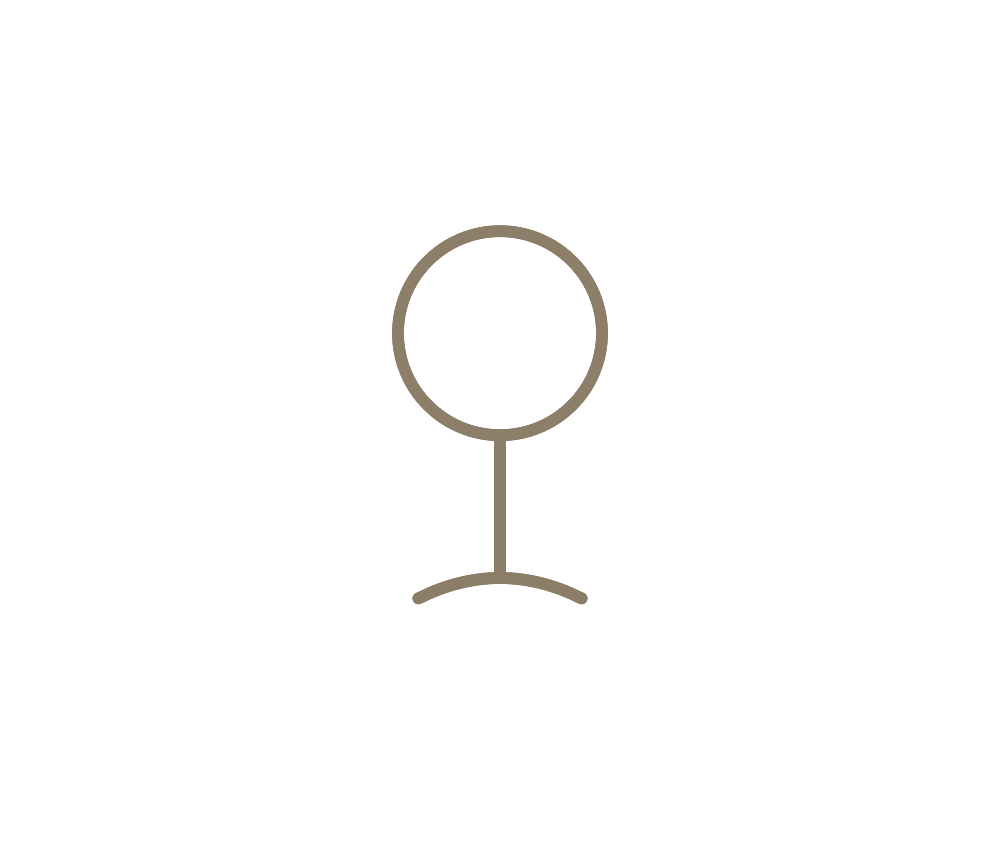
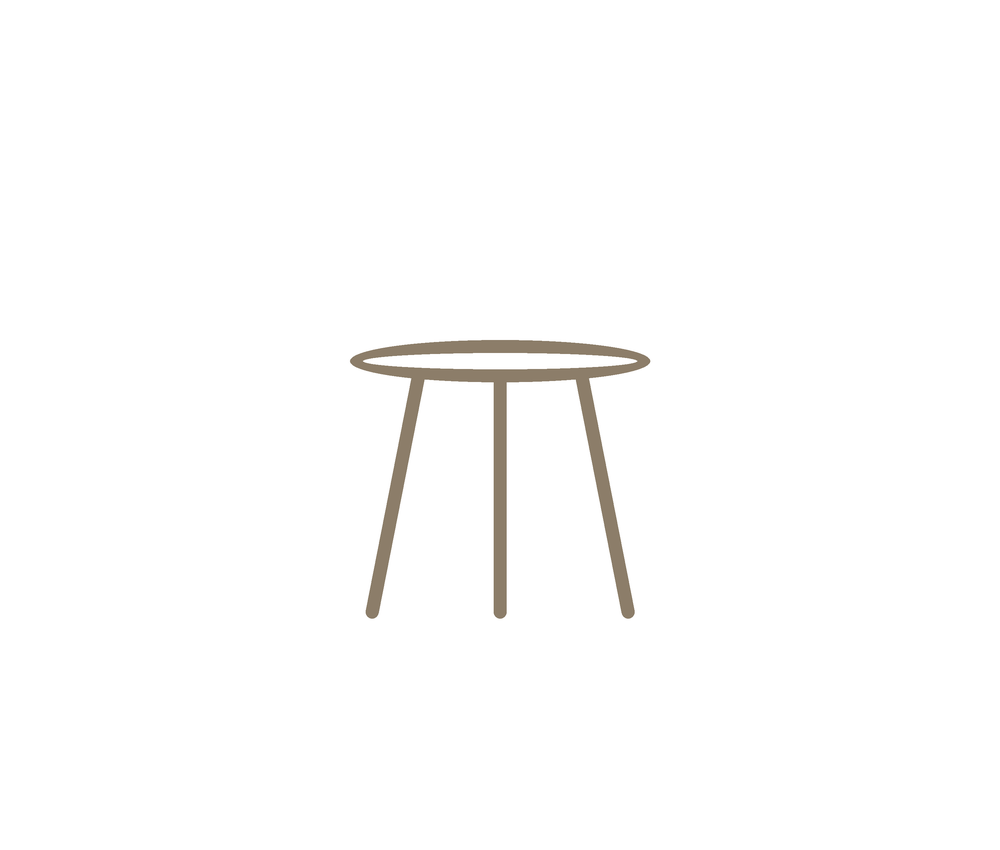
Entrada por categoria, fundo branco e refinamentos de UX
- Página inicial mostra só as categorias (capas); clicar abre os produtos
  da categoria (com foto/descrição próprias quando cadastrados)
- Remove totalmente o 'Em breve'; capas elegantes e clicáveis
- Fundo do site branco (body e login)
- Assinatura 'Por Gabriele Pinheiro' no cabeçalho
- Busca e filtros de categoria mais sutis e elegantes (estilo quiet luxury)
- Nova capa de Mesa lateral (mesa redonda com tripé)
- Novidades: novo subtítulo mensal
- Seed cobre todas as 22 categorias (versão de seed para recarregar dados)

Changed region(s): [[0.341, 0.2447, 0.651, 0.7341]]

diff --git a/assets/styles.css b/assets/styles.css
@@ -13,12 +13,12 @@
   --gold:#B49B6C;
 }
 *{margin:0;padding:0;box-sizing:border-box}
-body{font-family:'Outfit',sans-serif;background:var(--linen);color:var(--ink);min-height:100vh}
+body{font-family:'Outfit',sans-serif;background:#FFFFFF;color:var(--ink);min-height:100vh}
 h1,h2,h3,.display{font-family:'Marcellus',serif;font-weight:400}
 button{font-family:inherit;cursor:pointer}
 
 /* ---------- LOGIN ---------- */
-#loginScreen{position:fixed;inset:0;background:var(--linen);display:flex;align-items:center;justify-content:center;z-index:100;padding:24px}
+#loginScreen{position:fixed;inset:0;background:#FFFFFF;display:flex;align-items:center;justify-content:center;z-index:100;padding:24px}
 .login-card{max-width:420px;width:100%;text-align:center}
 .login-card .mark{font-family:'Marcellus',serif;font-size:13px;letter-spacing:.35em;text-transform:uppercase;color:var(--bronze)}
 .login-card h1{font-size:34px;margin:14px 0 6px}
@@ -37,6 +37,7 @@ button{font-family:inherit;cursor:pointer}
 header{padding:26px 5vw 0;display:flex;justify-content:space-between;align-items:center;flex-wrap:wrap;gap:14px}
 .brand{font-family:'Marcellus',serif;font-size:15px;letter-spacing:.3em;text-transform:uppercase}
 .brand span{color:var(--bronze)}
+.brand-by{font-size:10.5px;letter-spacing:.22em;text-transform:uppercase;color:var(--bronze-soft);margin-top:5px}
 .header-actions{display:flex;gap:10px;align-items:center;flex-wrap:wrap}
 .chip-btn{background:transparent;border:1px solid var(--line);padding:9px 18px;font-size:12px;letter-spacing:.12em;text-transform:uppercase;border-radius:2px;color:var(--ink);transition:all .2s;display:flex;gap:8px;align-items:center}
 .chip-btn:hover,.chip-btn.active{background:var(--ink);color:var(--linen);border-color:var(--ink)}
@@ -49,14 +50,15 @@ header{padding:26px 5vw 0;display:flex;justify-content:space-between;align-items
 .hero p{margin-top:10px;font-size:14px;color:var(--bronze);max-width:520px;line-height:1.65}
 
 /* ---------- BUSCA (+ NOVO) ---------- */
-.toolbar{display:flex;gap:12px;align-items:center;padding:18px 5vw 0;flex-wrap:wrap}
-.search{flex:1;min-width:220px;display:flex;align-items:center;gap:10px;background:var(--card);border:1px solid var(--line);border-radius:2px;padding:0 14px}
-.search:focus-within{border-color:var(--bronze)}
-.search input{flex:1;border:none;outline:none;background:none;font-family:inherit;font-size:14px;padding:13px 0;color:var(--ink)}
-.search svg{width:16px;height:16px;stroke:var(--bronze);fill:none;stroke-width:2}
+.toolbar{display:flex;gap:18px;align-items:center;justify-content:center;padding:24px 5vw 2px;flex-wrap:wrap}
+.search{flex:0 1 440px;display:flex;align-items:center;gap:12px;background:transparent;border:none;border-bottom:1px solid var(--line);border-radius:0;padding:0 4px;transition:border-color .2s}
+.search:focus-within{border-bottom-color:var(--bronze)}
+.search input{flex:1;border:none;outline:none;background:none;font-family:inherit;font-size:14px;letter-spacing:.02em;padding:11px 0;color:var(--ink)}
+.search input::placeholder{color:var(--bronze-soft);letter-spacing:.04em}
+.search svg{width:15px;height:15px;stroke:var(--bronze-soft);fill:none;stroke-width:1.8}
 .country-pick{display:flex;align-items:center;gap:8px}
-.country-pick select{border:1px solid var(--line);background:var(--card);font-family:inherit;font-size:13px;padding:12px 14px;border-radius:2px;color:var(--ink);outline:none}
-.country-pick select:focus{border-color:var(--bronze)}
+.country-pick select{border:none;border-bottom:1px solid var(--line);background:transparent;font-family:inherit;font-size:13px;padding:10px 6px;border-radius:0;color:var(--ink);outline:none;transition:border-color .2s}
+.country-pick select:focus{border-bottom-color:var(--bronze)}
 
 /* ---------- ATLAS (regiões) ---------- */
 .atlas{display:flex;gap:0;overflow-x:auto;border-top:1px solid var(--line);border-bottom:1px solid var(--line);margin:22px 0 0;padding:0 5vw;scrollbar-width:none}
@@ -67,8 +69,9 @@ header{padding:26px 5vw 0;display:flex;justify-content:space-between;align-items
 .atlas button:hover{color:var(--ink)}
 
 /* ---------- CATEGORIAS ---------- */
-.cats{display:flex;gap:8px;flex-wrap:wrap;padding:20px 5vw 4px}
-.cats button{background:var(--card);border:1px solid var(--line);padding:8px 16px;font-size:12.5px;border-radius:999px;color:var(--ink);transition:all .2s}
+.cats{display:flex;gap:6px;flex-wrap:wrap;justify-content:center;padding:18px 8vw 6px}
+.cats button{background:transparent;border:1px solid transparent;padding:7px 15px;font-size:12px;letter-spacing:.05em;border-radius:999px;color:var(--bronze);transition:all .2s}
+.cats button:hover{color:var(--ink);background:#FAF7F1}
 .cats button.active{background:var(--bronze);border-color:var(--bronze);color:#fff}
 
 /* ---------- GRID ---------- */
@@ -95,10 +98,14 @@ header{padding:26px 5vw 0;display:flex;justify-content:space-between;align-items
 .price .dim{color:var(--line)}
 
 /* Cartão de categoria ainda sem produtos cadastrados (+ NOVO) */
-.card-soon{cursor:default}
-.card-soon:hover{transform:none;box-shadow:none}
-.card-soon .store{color:var(--bronze-soft)}
-.card-soon .name{color:var(--bronze)}
+/* Entrada por categoria (capas clicáveis) */
+.grid-cats{grid-template-columns:repeat(auto-fill,minmax(220px,1fr))}
+.cat-tile{background:var(--card);border:1px solid var(--line);border-radius:3px;overflow:hidden;cursor:pointer;display:flex;flex-direction:column;transition:transform .2s, box-shadow .2s}
+.cat-tile:hover{transform:translateY(-3px);box-shadow:0 14px 30px rgba(60,50,30,.09)}
+.cat-tile-img{aspect-ratio:1/.85;background:#FFFFFF;display:flex;align-items:center;justify-content:center;overflow:hidden}
+.cat-tile-img img{width:100%;height:100%;object-fit:cover}
+.cat-tile-name{font-family:'Marcellus',serif;font-size:17px;text-align:center;padding:14px 10px 18px;color:var(--ink);transition:color .2s}
+.cat-tile:hover .cat-tile-name{color:var(--bronze)}
 
 /* ---------- ADMIN ---------- */
 #adminPanel{position:fixed;inset:0;background:rgba(44,40,32,.45);display:none;align-items:flex-start;justify-content:center;z-index:90;padding:5vh 16px;overflow:auto}

diff --git a/assets/app.js b/assets/app.js
@@ -184,50 +184,65 @@ function priceHTML(level, currency) {
 function renderGrid() {
   const grid = $('grid');
   const empty = $('emptyState');
-  const items = currentItems();
 
-  $('heroTitle').textContent =
-    state.view === 'favoritos' ? 'Seus favoritos, guardados num só lugar.'
-    : state.view === 'novidades' ? 'Novidades da curadoria.'
-    : 'Móveis e decoração com curadoria, loja a loja.';
+  // Entrada da curadoria: mostra só as categorias (capas). Clicar abre os produtos.
+  const isLanding = state.view === 'curadoria' && state.category === 'Todos' && !state.search;
 
-  $('heroSub').textContent =
-    state.view === 'favoritos'
-      ? 'Espaço feito para você não perder os itens que mais gostou.'
-      : state.view === 'novidades'
-      ? 'As peças que acabaram de entrar na curadoria.'
-      : 'Cada peça abaixo foi avaliada: reputação da loja e países de entrega. Clique na peça para abrir direto na loja.';
+  if (state.view === 'favoritos') {
+    $('heroTitle').textContent = 'Seus favoritos, guardados num só lugar.';
+    $('heroSub').textContent = 'Espaço feito para você não perder os itens que mais gostou.';
+  } else if (state.view === 'novidades') {
+    $('heroTitle').textContent = 'Novidades da curadoria.';
+    $('heroSub').textContent = 'Aqui você encontra as peças que acabaram de entrar na curadoria. Todo mês, novas peças pra você.';
+  } else if (isLanding) {
+    $('heroTitle').textContent = 'Móveis e decoração com curadoria, loja a loja.';
+    $('heroSub').textContent = 'Explore a curadoria por categoria.';
+  } else if (state.search) {
+    $('heroTitle').textContent = 'Resultados da busca';
+    $('heroSub').textContent = 'Peças que combinam com o que você procura.';
+  } else {
+    $('heroTitle').textContent = state.category;
+    $('heroSub').textContent = 'Cada peça foi avaliada: reputação da loja e países de entrega. Clique para abrir direto na loja.';
+  }
 
   // toolbar de país só na curadoria
   $('countryPick').style.display =
     (state.view === 'curadoria' && (COUNTRIES[state.region] || []).length > 1) ? '' : 'none';
 
-  // Capas "Em breve": na curadoria, mostramos a capa de cada categoria que
-  // ainda não tem produto — assim o cliente já vê tudo o que vem por aí,
-  // mesmo antes do catálogo ser alimentado.
-  let soon = [];
-  if (state.view === 'curadoria' && !state.search) {
-    const present = new Set(items.map((p) => p.categoria));
-    const cats = state.category === 'Todos' ? CATEGORIES : [state.category];
-    soon = cats.filter((c) => !present.has(c));
+  if (isLanding) {
+    empty.style.display = 'none';
+    grid.className = 'grid grid-cats';
+    grid.innerHTML = CATEGORIES.map((cat) => `<article class="cat-tile" data-cat="${escapeAttr(cat)}">
+        <div class="cat-tile-img"><img src="${coverFor(cat)}" alt="${escapeAttr(cat)}" loading="lazy"></div>
+        <div class="cat-tile-name">${cat}</div>
+      </article>`).join('');
+    grid.querySelectorAll('[data-cat]').forEach((el) => {
+      el.onclick = () => setCat(el.dataset.cat);
+    });
+    return;
   }
 
-  if (!items.length && !soon.length) {
+  grid.className = 'grid';
+  const items = currentItems();
+
+  if (!items.length) {
     grid.innerHTML = '';
     empty.style.display = 'block';
     $('emptyMsg').textContent =
       state.view === 'favoritos' ? 'Toque no coração de qualquer peça para guardá-la aqui.'
-      : 'Sem novidades no momento — volte em breve.';
+      : state.view === 'novidades' ? 'Sem novidades no momento — volte em breve.'
+      : state.search ? 'Nada encontrado para esta busca.'
+      : 'Nenhuma peça nesta categoria ainda.';
     return;
   }
   empty.style.display = 'none';
 
-  const productsHTML = items.map((p) => {
+  grid.innerHTML = items.map((p) => {
     const region = regionById(p.region);
     const fav = state.favs.has(p.id);
     // Foto própria do produto, ou a capa oficial aprovada da categoria.
     const imgSrc = p.imagem || coverFor(p.categoria);
-    const imgInner = `<img src="${imgSrc}" alt="${escapeAttr(p.nome)}">`;
+    const imgInner = `<img src="${imgSrc}" alt="${escapeAttr(p.nome)}" loading="lazy">`;
     return `<article class="card">
       ${isActiveNovelty(p) ? '<span class="badge-new">Novo</span>' : ''}
       <button class="fav ${fav ? 'on' : ''}" data-fav="${p.id}" aria-label="Favoritar">♥</button>
@@ -243,16 +258,6 @@ function renderGrid() {
       </div>
     </article>`;
   }).join('');
-
-  const soonHTML = soon.map((cat) => `<article class="card card-soon">
-      <div class="img"><img src="${coverFor(cat)}" alt="${escapeAttr(cat)}"></div>
-      <div class="info">
-        <div class="store">Em breve</div>
-        <div class="name">${cat}</div>
-      </div>
-    </article>`).join('');
-
-  grid.innerHTML = productsHTML + soonHTML;
 
   grid.querySelectorAll('[data-open]').forEach((el) => {
     el.onclick = () => { const u = el.dataset.open; if (u && u !== '#') window.open(u, '_blank'); };

diff --git a/assets/seed.js b/assets/seed.js
@@ -34,4 +34,19 @@ export const PRODUCTS_SEED = [
   { id: 'p8',  nome: 'Cadeira Thonet n.º 14, vintage',      referencia: 'Chaise Thonet n°14',      storeId: 'loja-selency',   categoria: 'Cadeira',         faixaPreco: 4, imagem: '', link: 'https://www.selency.com', novidade: false, novidadeAte: '' },
   { id: 'p9',  nome: 'Poltrona Costela, couro caramelo',    referencia: 'Poltrona Costela',        storeId: 'loja-tokstok',   categoria: 'Poltrona',        faixaPreco: 3, imagem: '', link: 'https://www.tokstok.com.br',novidade: false, novidadeAte: '' },
   { id: 'p10', nome: 'Manta tramada em algodão rústico',    referencia: 'Manta Algodão',          storeId: 'loja-westwingbr',categoria: 'Decoração',       faixaPreco: 1, imagem: '', link: 'https://www.westwing.com.br',novidade: false, novidadeAte: '' },
+  { id: 'p11', nome: 'Sofá Hampton 3 lugares, linho',       referencia: 'Sofa Hampton Leinen',     storeId: 'loja-westwing',  categoria: 'Sofá',                  faixaPreco: 5, imagem: '', link: 'https://www.westwing.de',  novidade: true,  novidadeAte: EM_30_DIAS },
+  { id: 'p12', nome: 'Banqueta de madeira Oslo',            referencia: 'Hocker Oslo',             storeId: 'loja-hm',        categoria: 'Banco & Banqueta',      faixaPreco: 1, imagem: '', link: 'https://www2.hm.com',     novidade: false, novidadeAte: '' },
+  { id: 'p13', nome: 'Mesa lateral redonda Nara',           referencia: 'Mesa auxiliar Nara',      storeId: 'loja-kave',      categoria: 'Mesa lateral',          faixaPreco: 2, imagem: '', link: 'https://kavehome.com',    novidade: false, novidadeAte: '' },
+  { id: 'p14', nome: 'Mesa de cabeceira Linnea',            referencia: 'Nachttisch Linnea',       storeId: 'loja-westwing',  categoria: 'Mesa de cabeceira',     faixaPreco: 2, imagem: '', link: 'https://www.westwing.de',  novidade: false, novidadeAte: '' },
+  { id: 'p15', nome: 'Aparador Surry em carvalho',          referencia: 'Sideboard Surry',         storeId: 'loja-kave',      categoria: 'Aparador & Buffet',     faixaPreco: 4, imagem: '', link: 'https://kavehome.com',    novidade: false, novidadeAte: '' },
+  { id: 'p16', nome: 'Estante modular Berg',                referencia: 'Regal Berg',              storeId: 'loja-urbanara',  categoria: 'Estante',               faixaPreco: 3, imagem: '', link: 'https://www.urbanara.de', novidade: false, novidadeAte: '' },
+  { id: 'p17', nome: 'Cama de casal estofada Mara',         referencia: 'Polsterbett Mara',        storeId: 'loja-westwing',  categoria: 'Cama',                  faixaPreco: 5, imagem: '', link: 'https://www.westwing.de',  novidade: false, novidadeAte: '' },
+  { id: 'p18', nome: 'Cômoda 3 gavetas Brienne',            referencia: 'Commode Brienne',         storeId: 'loja-laredoute', categoria: 'Cômoda',                faixaPreco: 3, imagem: '', link: 'https://www.laredoute.fr',novidade: false, novidadeAte: '' },
+  { id: 'p19', nome: 'Escrivaninha minimalista Aria',       referencia: 'Schreibtisch Aria',       storeId: 'loja-hm',        categoria: 'Escrivaninha',          faixaPreco: 2, imagem: '', link: 'https://www2.hm.com',     novidade: false, novidadeAte: '' },
+  { id: 'p20', nome: 'Luminária de chão arco Lua',          referencia: 'Stehlampe Lua',           storeId: 'loja-zarahome',  categoria: 'Luminária',             faixaPreco: 3, imagem: '', link: 'https://www.zarahome.com',novidade: true,  novidadeAte: EM_30_DIAS },
+  { id: 'p21', nome: 'Conjunto de quadros botânicos',       referencia: 'Set láminas botánicas',   storeId: 'loja-zarahome',  categoria: 'Quadros & Arte',        faixaPreco: 1, imagem: '', link: 'https://www.zarahome.com',novidade: false, novidadeAte: '' },
+  { id: 'p22', nome: 'Espelho redondo aro bronze',          referencia: 'Espejo redondo',          storeId: 'loja-zarahome',  categoria: 'Espelho',               faixaPreco: 2, imagem: '', link: 'https://www.zarahome.com',novidade: false, novidadeAte: '' },
+  { id: 'p23', nome: 'Jogo de cama percal 200 fios',        referencia: 'Bettwäsche Perkal',       storeId: 'loja-urbanara',  categoria: 'Roupa de cama & Têxtil',faixaPreco: 2, imagem: '', link: 'https://www.urbanara.de', novidade: false, novidadeAte: '' },
+  { id: 'p24', nome: 'Espreguiçadeira de jardim Riviera',   referencia: 'Bain de soleil Riviera',  storeId: 'loja-laredoute', categoria: 'Área externa',          faixaPreco: 3, imagem: '', link: 'https://www.laredoute.fr',novidade: false, novidadeAte: '' },
+  { id: 'p25', nome: 'Poltrona de leitura Lounge',          referencia: 'Sessel Lounge',           storeId: 'loja-westwing',  categoria: 'Poltrona',              faixaPreco: 4, imagem: '', link: 'https://www.westwing.de',  novidade: false, novidadeAte: '' },
 ];

diff --git a/assets/data-layer.js b/assets/data-layer.js
@@ -53,9 +53,14 @@ const seedAdapter = (() => {
   };
   const write = (k, v) => localStorage.setItem(k, JSON.stringify(v));
 
-  // Semeia o catálogo na primeira visita.
-  if (read(LS.stores, null) === null) write(LS.stores, STORES_SEED);
-  if (read(LS.prods,  null) === null) write(LS.prods,  PRODUCTS_SEED);
+  // Semeia o catálogo. SEED_VERSION força recarregar os dados de exemplo
+  // quando atualizamos o seed (senão o navegador manteria a versão antiga).
+  const SEED_VERSION = '3';
+  if (read('cci.seedv', null) !== SEED_VERSION) {
+    write(LS.stores, STORES_SEED);
+    write(LS.prods, PRODUCTS_SEED);
+    write('cci.seedv', SEED_VERSION);
+  }
 
   const storesById = () =>
     Object.fromEntries(read(LS.stores, []).map((s) => [s.id, s]));

diff --git a/index.html b/index.html
@@ -25,7 +25,10 @@
 
 <!-- APP -->
 <header>
-  <div class="brand">CCI <span>· Curadoria</span></div>
+  <div class="brand-wrap">
+    <div class="brand">CCI <span>· Curadoria</span></div>
+    <div class="brand-by">Por Gabriele Pinheiro</div>
+  </div>
   <div class="header-actions">
     <button class="chip-btn" id="newsBtn">✦ Novidades</button>
     <button class="chip-btn" id="favBtn">♥ Favoritos <span class="count" id="favCount">0</span></button>
